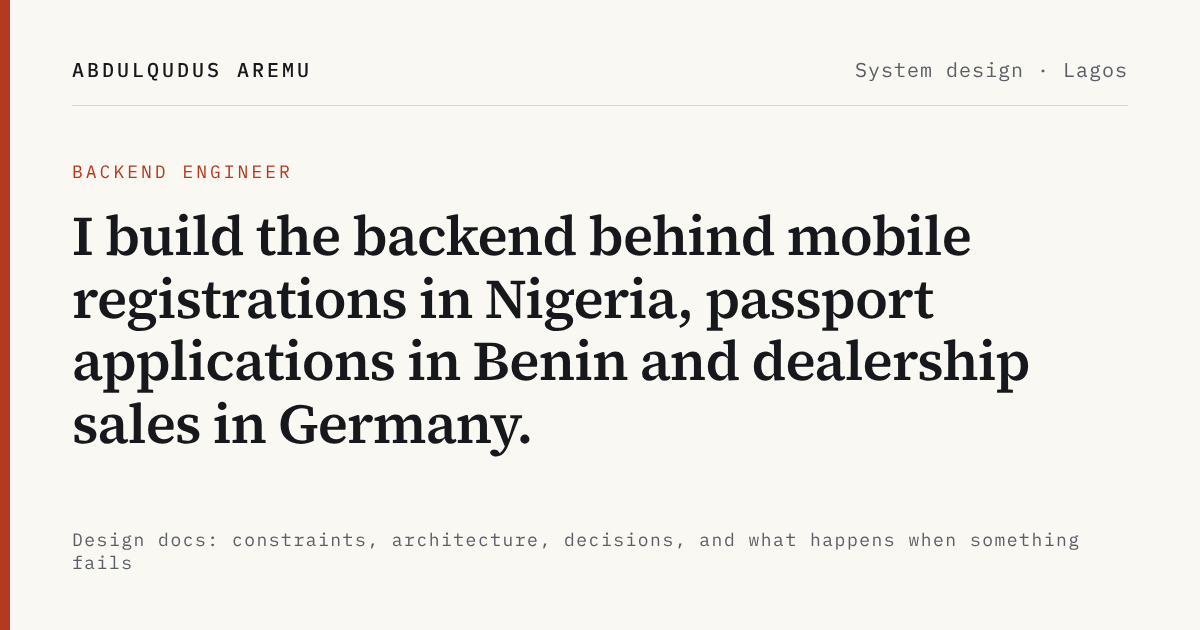
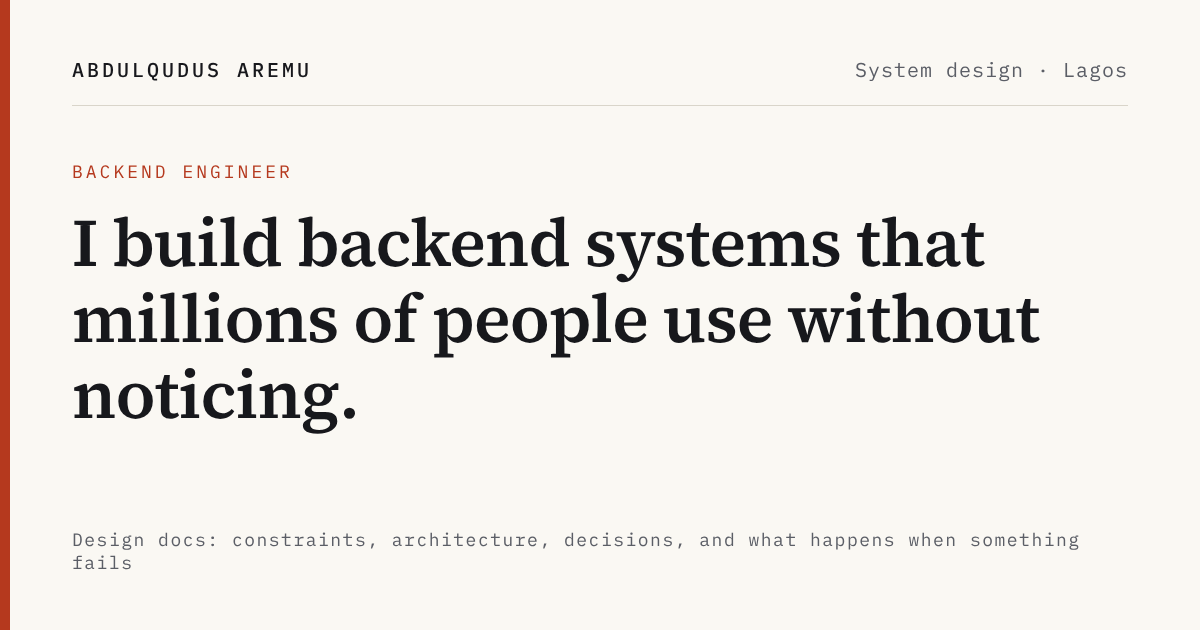
Headline: backend systems that millions of people use without noticing
No country or industry in the headline or intro; reach is stated as three continents.

Claude-Session: https://claude.ai/code/session_019L8p2mRSAgcjhofpqn2dJn

Changed region(s): [[0.0617, 0.3317, 0.8633, 0.7238]]

diff --git a/src/content/site.ts b/src/content/site.ts
@@ -19,12 +19,11 @@ export const profile = {
   },
 };
 
-export const headline =
-  "I build the backend behind mobile registrations in Nigeria, passport applications in Benin and dealership sales in Germany.";
+export const headline = "I build backend systems that millions of people use without noticing.";
 
 export const lede = [
-  "I’m a senior backend engineer at Seamfix in Lagos. Since 2023 that has meant the platforms mobile operators use to register and verify their subscribers, among them Globacom, MTN Côte d’Ivoire and Lebara, and a remote e-passport platform for Benin’s Ministry of Foreign Affairs.",
-  "On contract I have built the CRM that eleven dealerships in three European countries run on, and data connectors for a marketing-data platform in the United States. Different domains, the same work: decide where the state lives, make every step safe to repeat, and plan for the dependency that will be down.",
+  "I’m a senior backend engineer at Seamfix. My work runs in production for telecom operators, a government ministry, universities and companies on three continents, and the largest of those systems serve more than 27 million people.",
+  "Different domains, the same work: decide where the state lives, make every step safe to repeat, and plan for the dependency that will be down. Each system below is written up the way I would explain it to another engineer.",
 ];
 
 // Results of my own work. Each one is explained in a design doc below.
@@ -35,8 +34,8 @@ export const figures: { label: string; value: string }[] = [
 ];
 
 export const facts: { label: string; value: string }[] = [
-  { label: "Built for", value: "Mobile operators · a foreign ministry · four universities · eleven dealerships" },
-  { label: "In", value: "Nigeria · Côte d’Ivoire · Benin · Germany · United States" },
+  { label: "Built for", value: "Mobile operators · a government ministry · four universities · eleven dealerships" },
+  { label: "Reach", value: "Africa · Europe · North America" },
   { label: "Operators", value: "Globacom · MTN Côte d’Ivoire · Lebara" },
 ];
 

diff --git a/scripts/og.html b/scripts/og.html
@@ -9,7 +9,7 @@ body { width: 1200px; height: 630px; background: #faf8f3; color: #17181c; font-f
 .top { display: flex; justify-content: space-between; font: 500 20px Plex, monospace; letter-spacing: 3px; padding-bottom: 22px; border-bottom: 1px solid #d9d5ca; }
 .top span:last-child { font-weight: 400; letter-spacing: 1px; color: #5b5e66; }
 .k { font: 400 18px Plex, monospace; letter-spacing: 3px; color: #b5391e; margin-top: 54px; }
-h1 { font-size: 56px; line-height: 1.12; font-weight: 600; letter-spacing: -0.9px; margin: 22px 0 0; max-width: 1010px; }
+h1 { font-size: 68px; line-height: 1.12; font-weight: 600; letter-spacing: -0.9px; margin: 22px 0 0; max-width: 1010px; }
 .foot { margin-top: auto; font: 400 18px Plex, monospace; letter-spacing: 1.5px; color: #5b5e66; }
 .bar { position: absolute; left: 0; top: 0; bottom: 0; width: 10px; background: #b5391e; }
 </style>
@@ -17,6 +17,6 @@ h1 { font-size: 56px; line-height: 1.12; font-weight: 600; letter-spacing: -0.9p
 <div class="pad">
   <div class="top"><span>ABDULQUDUS AREMU</span><span>System design · Lagos</span></div>
   <div class="k">BACKEND ENGINEER</div>
-  <h1>I build the backend behind mobile registrations in Nigeria, passport applications in Benin and dealership sales in Germany.</h1>
+  <h1>I build backend systems that millions of people use without noticing.</h1>
   <div class="foot">Design docs: constraints, architecture, decisions, and what happens when something fails</div>
 </div>

diff --git a/src/app/layout.tsx b/src/app/layout.tsx
@@ -23,7 +23,7 @@ const mono = localFont({
 
 const title = "Abdulqudus Aremu, backend engineer";
 const description =
-  "Senior backend engineer in Lagos. System design write-ups from work for mobile operators, a foreign ministry, universities and dealerships in five countries.";
+  "Senior backend engineer in Lagos. System design write-ups from work for mobile operators, a foreign ministry, universities and companies on three continents.";
 
 // Set NEXT_PUBLIC_SITE_URL at build time once the final address is known.
 const siteUrl = process.env.NEXT_PUBLIC_SITE_URL ?? "https://abdulqudus.reavil.io";

diff --git a/src/app/page.tsx b/src/app/page.tsx
@@ -51,7 +51,7 @@ export default function Home() {
           </div>
           <div>
             <p className="label kicker">Backend engineer</p>
-            <h1 id="headline" className="long">{headline}</h1>
+            <h1 id="headline">{headline}</h1>
             <p className="lede">{lede[0]}</p>
             <p>{lede[1]}</p>
           </div>
